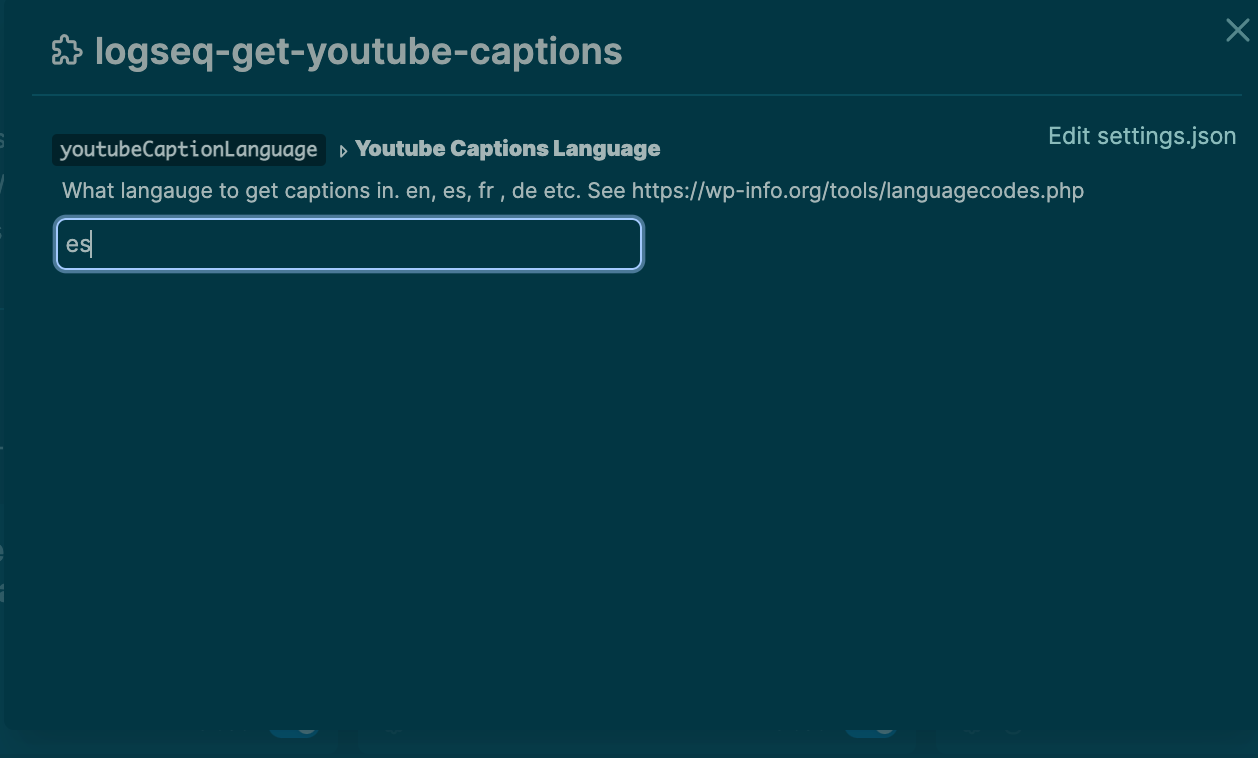
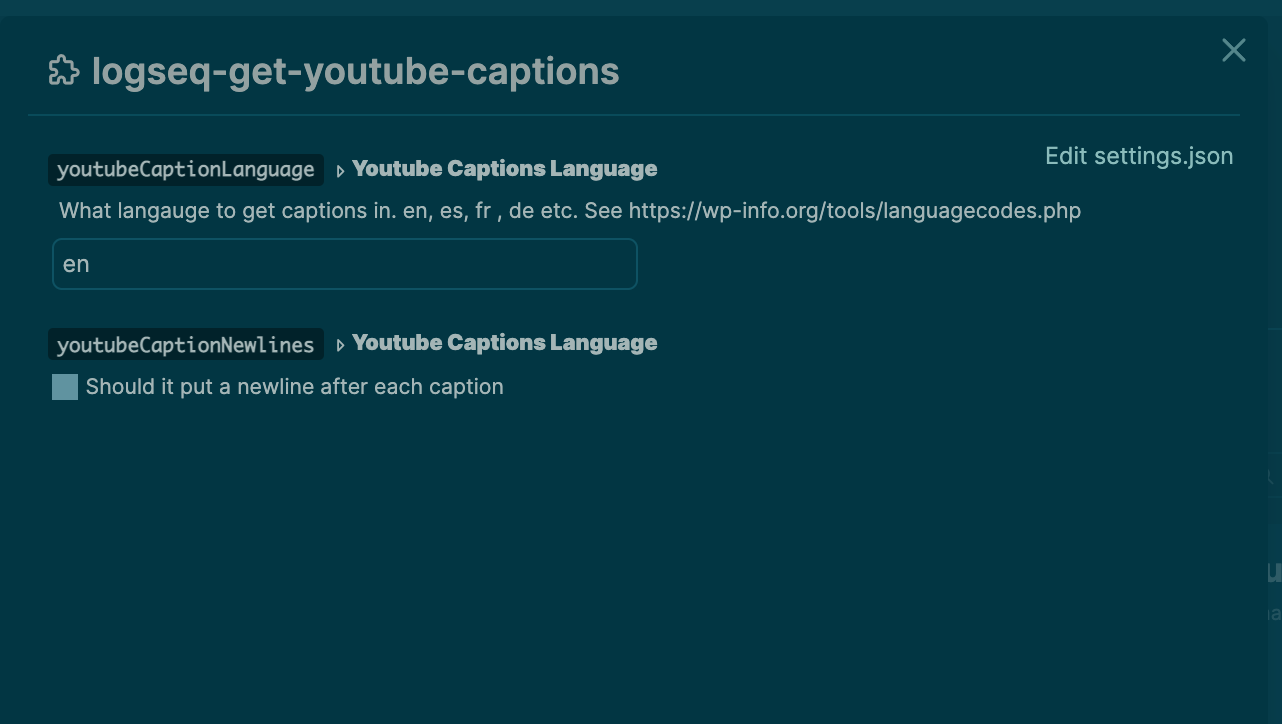
update readme with summarize

diff --git a/README.md b/README.md
@@ -35,11 +35,25 @@ It supports setting the caption language to download. It will display an error i
 
 ![Demo](./docs/demo.gif)
 
+### Summarize
+
+![Summarize](./docs/summarize.png)
+
+I highly recommend combining this with my [logseq GPT3 OpenAI plugin](https://github.com/briansunter/logseq-plugin-gpt3-openai) for advanced text summarization, like getting the top 5 main points of a long video.
+
 ### Customize captions language to download
+
 ![Settings](./docs/settings.png)
 
 ### Download captions in your language
+
 ![Language](./docs/language.gif)
+
+### Put newlines between Captions
+
+This is a checkbox option in the settings. It might be better for some situations. Each caption line in the video is on it's own line in this mode.
+
+![newline](docs/newline.jpg)
 
 ## 📝 Table of Contents
 
@@ -69,6 +83,7 @@ Then run the open `get-youtube-captions` command via the slash or block menu. Th
 ## FAQ <a name = "faq"></a>
 
 ### I'm getting an error
+
 Check the console for errors. There may not be subtitles available in a given language.
 
 ### Installing
@@ -121,6 +136,7 @@ Creates a build using semantic release when a commit is pushed with a smart comm
 Do you have a bug or idea? I would love to hear from you! [Open a Github issue here.](https://github.com/briansunter/logseq-get-youtube-captions/issues/new)
 
 PRs welcome. [Open an issue](https://github.com/briansunter/logseq-get-youtube-captions/issues/new) to discuss first if possible.
+
 ## Authors <a name = "authors"></a>
 
 - [@briansunter](https://github.com/briansunter) - Author
